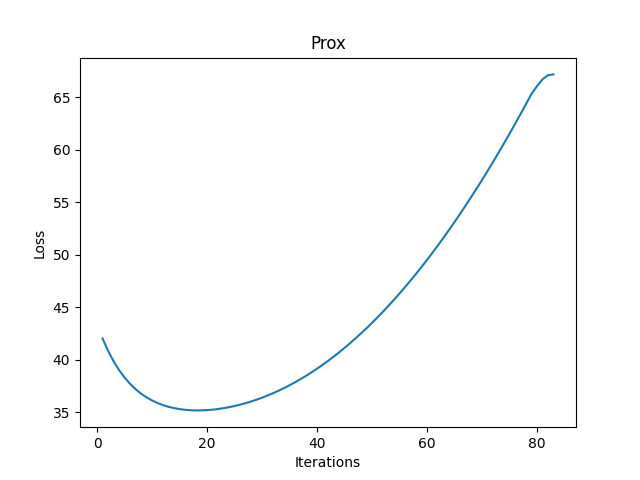
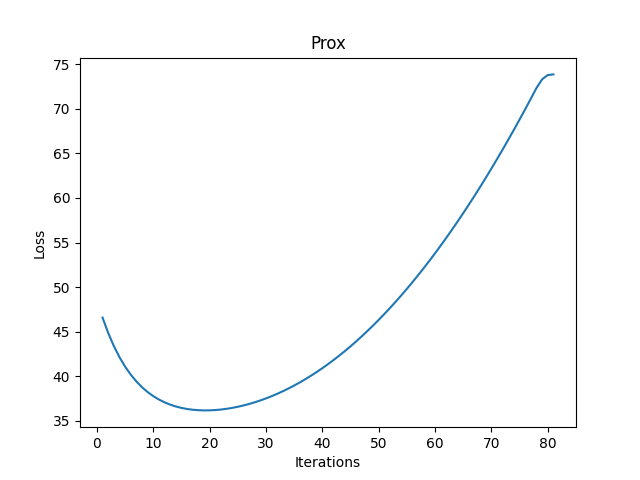
New Algo

diff --git a/ProxSTE.py b/ProxSTE.py
@@ -1,6 +1,5 @@
 import argparse
 from data import generateData
-from dataset import getCaliforniaHousingData, getDiabetes
 from itertools import product
 import numpy as np
 import matplotlib.pyplot as plt
@@ -19,16 +18,13 @@ parser.add_argument('--count', type=int, default = 100000,
 parser.add_argument('--scale', type=int, default=10,
                     help='Scale')
 parser.add_argument('--lr', type = np.float32, default=0.01)
-parser.add_argument('--reg', type = int, default=1)
-parser.add_argument('--lambda_', type = np.float32, default=0.01)
 parser.add_argument('--seed', type = int, default=42)
+parser.add_argument('--reg', type = int, default=1)
 
 args = parser.parse_args()
 
-lambda_ = args.lambda_
-
-X, X_test, y, y_test  = generateData(args.n, args.d, args.scale, args.seed)
-
+lambda_ = 0.001
+X, X_test, y, y_test = generateData(args.n, args.d, args.scale, args.seed)
 
 # Full precision weights
 reg = LinearRegression(fit_intercept=False).fit(X,y)
@@ -56,16 +52,6 @@ lossBinary = mean_squared_error(np.dot(X, best_weights.T),y)
 print("Binary Loss is "+str(lossBinary))
 print(best_weights)
 # Algorithm Weights
-
-def quantize(x):
-    return np.sign(x)
-
-def Relu(x):
-    return x * (x > 0)
-
-def getLambda_(t):
-    return lambda_*t
-
 def grad_(X,y,beta):
     y_hat = np.dot(X, beta.T)
     error = y - y_hat
@@ -73,8 +59,16 @@ def grad_(X,y,beta):
     grad = - (1 / args.n) * np.dot(X.T, error)
     return grad
 
+def getLambda_(t):
+    return lambda_*t
 
-def proj(beta, lambda_):
+def proj(beta):
+    return np.sign(beta)
+
+def Relu(x):
+    return x * (x > 0)
+
+def proj_prox(beta, lambda_):
     if args.reg==1:
         return np.sign(beta) + np.multiply(
             np.sign(beta - np.sign(beta)),
@@ -84,44 +78,38 @@ def proj(beta, lambda_):
         return (beta + lambda_*np.sign(beta))/(1+lambda_)
 
 beta = np.zeros((1,args.d))
-prev_beta = beta
 count = 0
-xx = []
 yy = []
+xx = []
+prev_beta = beta
 best_error = float('inf')
 new_best_weights = beta
-while (not np.array_equal(best_weights, quantize(beta))) and count != args.count:
+while (not np.array_equal(best_weights, proj(beta))) and count != args.count:
+#while count != args.count:
     count = count+1
-    grad = grad_(X,y,proj(beta,getLambda_(count+1))).T
+    grad = grad_(X,y,proj(beta)).T
     if np.linalg.norm(grad) == 0:
-        print("Grad_zero")
         break
     beta = beta - args.lr*grad
     if np.array_equal(prev_beta, beta):
         print("Converged")
         break
     prev_beta = beta
+    beta = proj_prox(beta, getLambda_(count+1))
     mse1 = mean_squared_error(np.dot(X,beta.T),y)
-    mse2 = mean_squared_error(np.dot(X,quantize(beta.T)),y)
+    mse2 = mean_squared_error(np.dot(X,proj(beta.T)),y)
     yy.append(mse1)
     xx.append(count)
     best_error = min(mse2, best_error)
     if best_error == mse2:
-        new_best_weights = quantize(beta)
+        new_best_weights = proj(beta)
 
-beta = new_best_weights
 print("Iterations to converge "+str(count))
-lossPGD = mean_squared_error(np.dot(X,beta.T),y)
+beta = new_best_weights
 plt.plot(xx,yy)
 plt.xlabel('Iterations')
 plt.ylabel('Loss')
-plt.title('Prox')
-
-from datetime import datetime
-now = datetime.now()
-current_time = now.strftime("%H:%M:%S")
-
-plt.savefig('Results/LazyProx/'+str(args.seed)+'.png')
+plt.savefig('Results/ProxSTE/'+str(args.seed)+'.png')
 plt.show()
 print("Training Loss "+str(best_error))
 print("Test Loss "+str(mean_squared_error(np.dot(X_test,beta.T),y_test)))

diff --git a/STE.py b/STE.py
@@ -60,7 +60,7 @@ def grad_(X,y,beta):
 def proj(beta):
     return np.sign(beta)
 
-beta = np.random.rand(1,args.d)
+beta = np.zeros((1,args.d))
 count = 0
 yy = []
 xx = []
@@ -68,6 +68,7 @@ prev_beta = beta
 best_error = float('inf')
 new_best_weights = beta
 while (not np.array_equal(best_weights, proj(beta))) and count != args.count:
+#while count != args.count:
     count = count+1
     grad = grad_(X,y,proj(beta)).T
     if np.linalg.norm(grad) == 0:

diff --git a/ProxQuantReg.py b/ProxQuantReg.py
@@ -80,7 +80,8 @@ def proj(beta, lambda_):
     else:
         return (beta + lambda_*np.sign(beta))/(1+lambda_)
 
-beta = np.random.rand(1,args.d)
+beta = np.zeros((1,args.d))
+#beta = np.random.rand(1,args.d)
 prev_beta = beta
 count = 0
 xx = []
